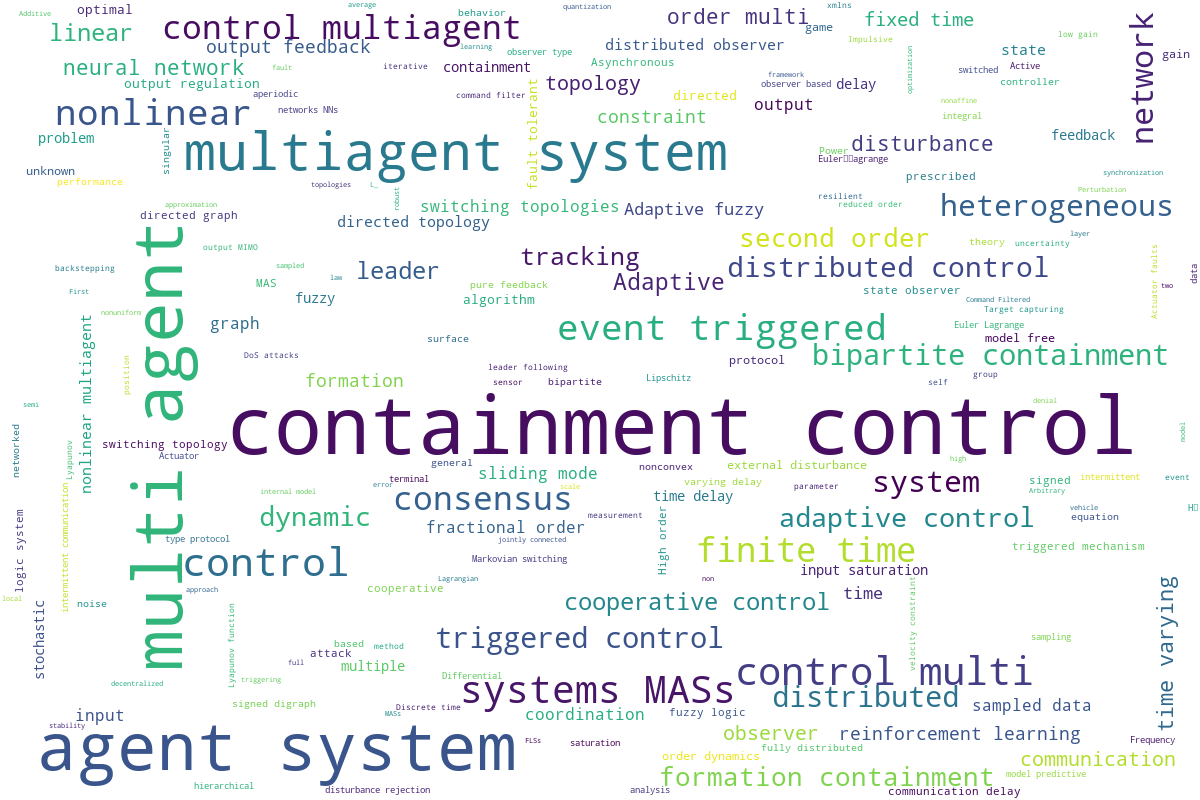
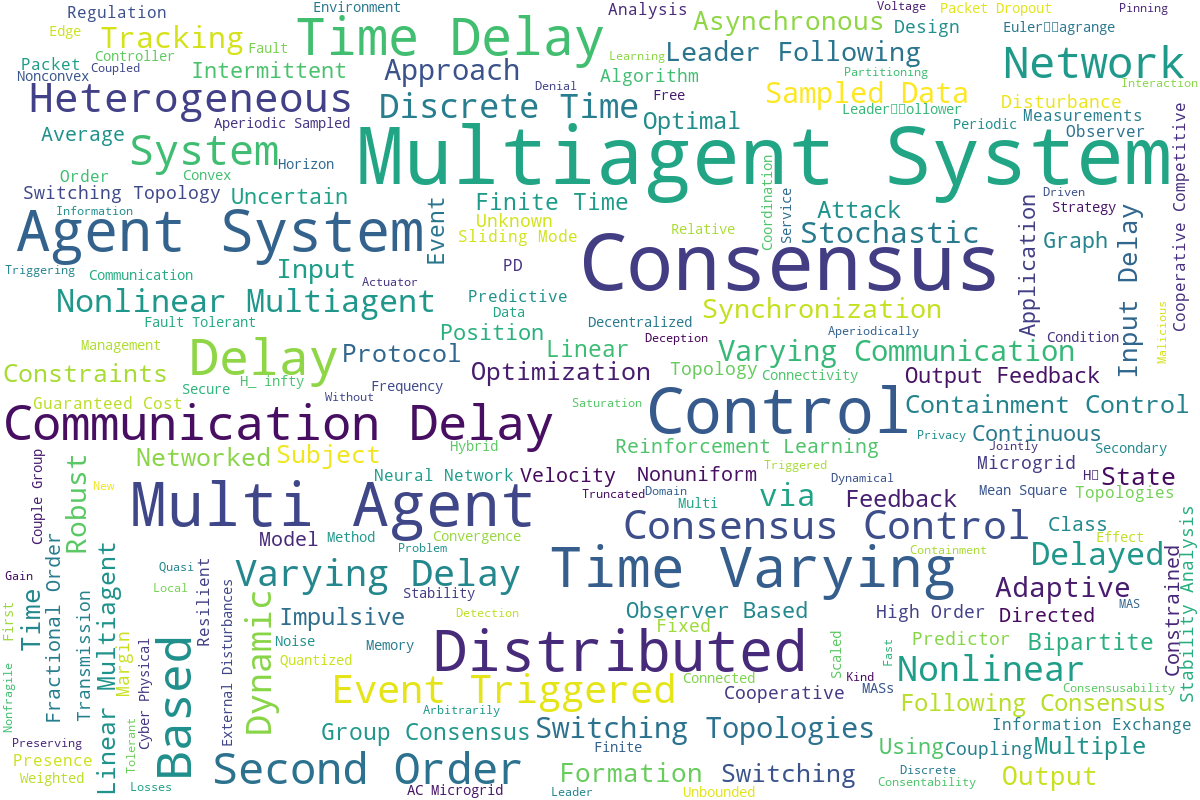
add 非线性非完整约束 file

Changed region(s): [[0.0, 0.0, 1.0, 1.0]]

diff --git a/visualization/ciyun.py b/visualization/ciyun.py
@@ -10,7 +10,7 @@ fontprop = FontProperties(fname=font_path)
 text = "这是一段文本，用来生成词云图。词云图可以将文本中的单词按照出现频率生成可视化效果。"
 
 # 从文本文件中读取文字
-with open('ciyun.txt', 'r', encoding='utf-8') as file:
+with open('ciyun1.txt', 'r', encoding='utf-8') as file:
     text = file.read()
 
 # 合并文本为一行
